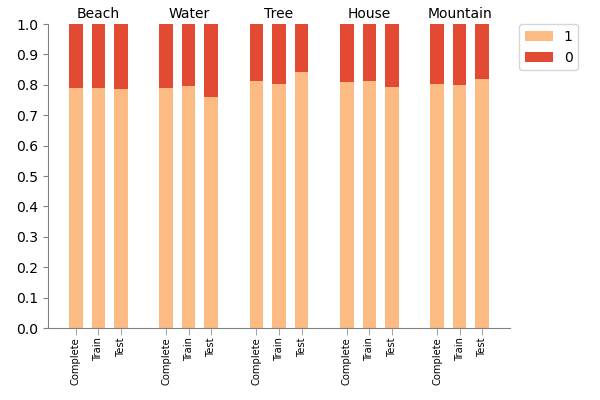
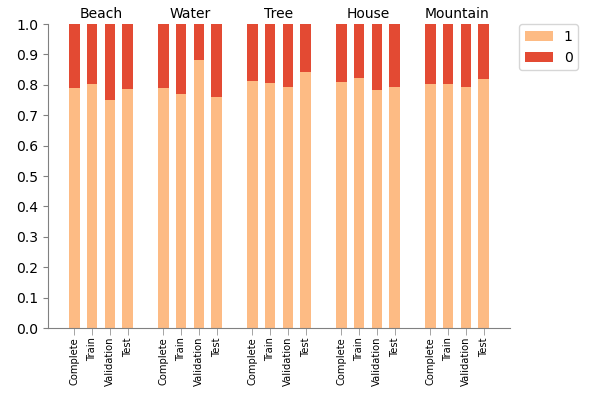
Changes to chart with validation

Changed region(s): [[0.24, 0.0, 0.66, 0.96], [0.69, 0.0, 0.84, 0.96], [0.12, 0.0, 0.24, 0.96]]

diff --git a/README.md b/README.md
@@ -94,7 +94,7 @@ Plot the stratification chart.
 msg_split.create_stratification_chart(y, y_train, y_test, labels=labels)
 ```
 
-![Stratification Chart](https://file+.vscode-resource.vscode-cdn.net/home/emile/dev/multilabel-stratified-group-split/img/stratification_chart.png)
+![Stratification Chart](img/stratification_chart.png)
 
 ### Including Validation Set
 
@@ -143,7 +143,7 @@ Train-Complete: 0.006
 Test-Complete: 0.018
 ```
 
-![Stratification Chart](https://file+.vscode-resource.vscode-cdn.net/home/emile/dev/multilabel-stratified-group-split/img/stratification_chart_with_val.png)
+![Stratification Chart](img/stratification_chart_with_val.png)
 
 ## License
 
